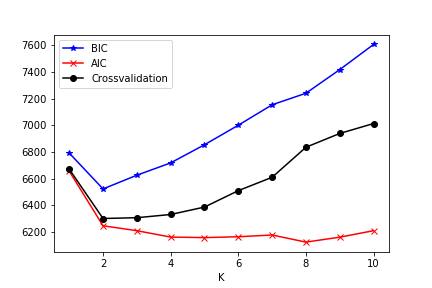
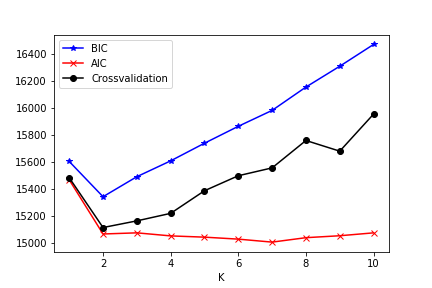
forskellige ting

diff --git a/Projekt_3/Alle_outliers_mader.py b/Projekt_3/Alle_outliers_mader.py
@@ -1,7 +1,7 @@
 # exercise 11.4.1
 import numpy as np
 from matplotlib.pyplot import (figure, imshow, bar, title, xticks, yticks, cm,
-                               subplot, show)
+                               subplot, show, savefig)
 from scipy.io import loadmat
 from toolbox_02450 import gausKernelDensity
 from sklearn.neighbors import NearestNeighbors
@@ -61,8 +61,10 @@ density = density[i].reshape(-1,)
 # Plot density estimate of outlier score
 figure(1)
 bar(range(20),density[:20])
-title('Density estimate')
+xticks(range(20), i[:20], rotation='vertical')
 
+title('Density estimate')
+savefig('Density_estimate.png')
 
 
 
@@ -83,8 +85,9 @@ density = density[i]
 # Plot k-neighbor estimate of outlier score (distances)
 figure(3)
 bar(range(20),density[:20])
+xticks(range(20), i[:20], rotation='vertical')
 title('KNN density: Outlier score')
-
+savefig('KNN_density_Outlier_score.png')
 
 
 ### K-nearest neigbor average relative density
@@ -102,8 +105,9 @@ avg_rel_density = avg_rel_density[i_avg_rel]
 # Plot k-neighbor estimate of outlier score (distances)
 figure(5)
 bar(range(20),avg_rel_density[:20])
+xticks(range(20), i[:20], rotation='vertical')
 title('KNN average relative density: Outlier score')
-
+savefig('KNN_average_relative_density_Outlier_score.png')
 
 ### Distance to 5'th nearest neighbor outlier score
 K = 5
@@ -121,8 +125,9 @@ score = score[i[::-1]]
 # Plot k-neighbor estimate of outlier score (distances)
 figure(7)
 bar(range(20),score[:20])
+xticks(range(20), i[:20], rotation='vertical')
 title('5th neighbor distance: Outlier score')
-
+savefig('5th_neighbor_distance_Outlier_score.png')
 
 
 print('Ran Exercise 11.4.1')

diff --git a/Projekt_3/GMM_med_plot.py b/Projekt_3/GMM_med_plot.py
@@ -7,7 +7,7 @@ Created on Sun Apr 22 14:56:40 2018
 """
 
 # exercise 11.1.5
-from matplotlib.pyplot import figure, plot, legend, xlabel, show
+from matplotlib.pyplot import figure, plot, legend, xlabel, show, savefig
 import numpy as np
 from sklearn.mixture import GaussianMixture
 from sklearn import model_selection
@@ -35,7 +35,7 @@ attributeNames = [
 #                   'bodyMass','pedigreeFunction','age',
 #                   'classVariable'],axis=1)
 
-X = stats.zscore(X); #Normalize data
+#X = stats.zscore(X); #Normalize data
 #X = X.values
 
 
@@ -82,7 +82,7 @@ for t,K in enumerate(KRange):
             # compute negative log likelihood of X_test
             CVE[t] += -gmm.score_samples(X_test).sum()
 
-gmm = GaussianMixture(n_components=4, covariance_type=covar_type, n_init=reps).fit(X)
+gmm = GaussianMixture(n_components=2, covariance_type=covar_type, n_init=reps).fit(X)
 cls = gmm.predict(X)
 # extract cluster labels
 cds = gmm.means_
@@ -108,6 +108,7 @@ plot(KRange, AIC,'-xr')
 plot(KRange, 2*CVE,'-ok')
 legend(['BIC', 'AIC', 'Crossvalidation'])
 xlabel('K')
+savefig('BIC_og_AIC_ og_Crossvalidation.png')
 show()
 
 print('Ran Exercise 11.1.5')

diff --git a/Projekt_3/binear.py b/Projekt_3/binear.py
@@ -1,0 +1,18 @@
+#!/usr/bin/env python3
+# -*- coding: utf-8 -*-
+"""
+Created on Tue Apr 24 16:32:42 2018
+
+@author: ibenfjordkjaersgaard
+"""
+import sys
+sys.path.append('/Users/ibenfjordkjaersgaard/Library/Mobile Documents/com~apple~CloudDocs/Documents/Uni/Semester 4/Machine learning og data mining/02450Toolbox_Python/Tools')
+
+from similarity import binarize2 
+
+from projekt3 import pimaData
+
+
+pimaData = pimaData
+
+binarize2(pimaData,['a','b','c','d'])

diff --git a/Projekt_3/02450Toolbox_Python/Scripts/run_apriori.py b/Projekt_3/02450Toolbox_Python/Scripts/run_apriori.py
@@ -1,9 +1,10 @@
 import numpy as np
-from subprocess import run
 import re
 import os
 import time
 from sys import platform
+from subprocess import run
+
 
 if platform.startswith('linux'): #== "linux" or platform == "linux2":
     ext = ''  # Linux
